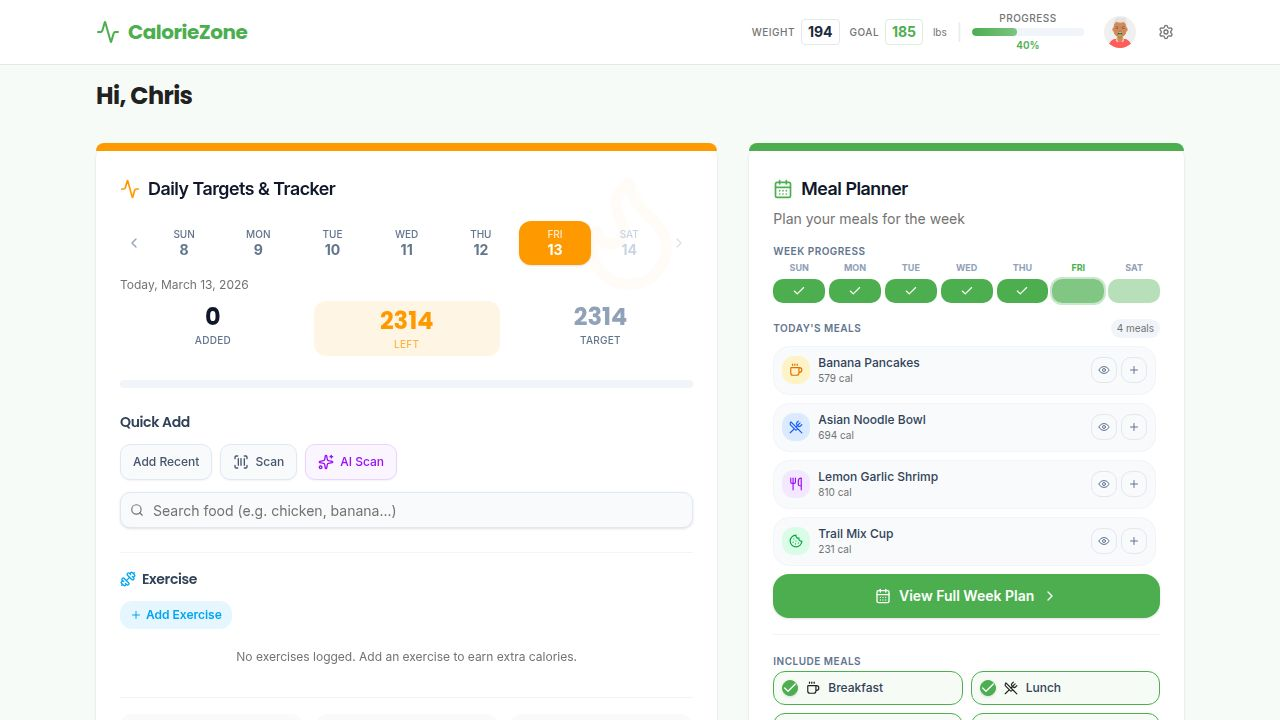
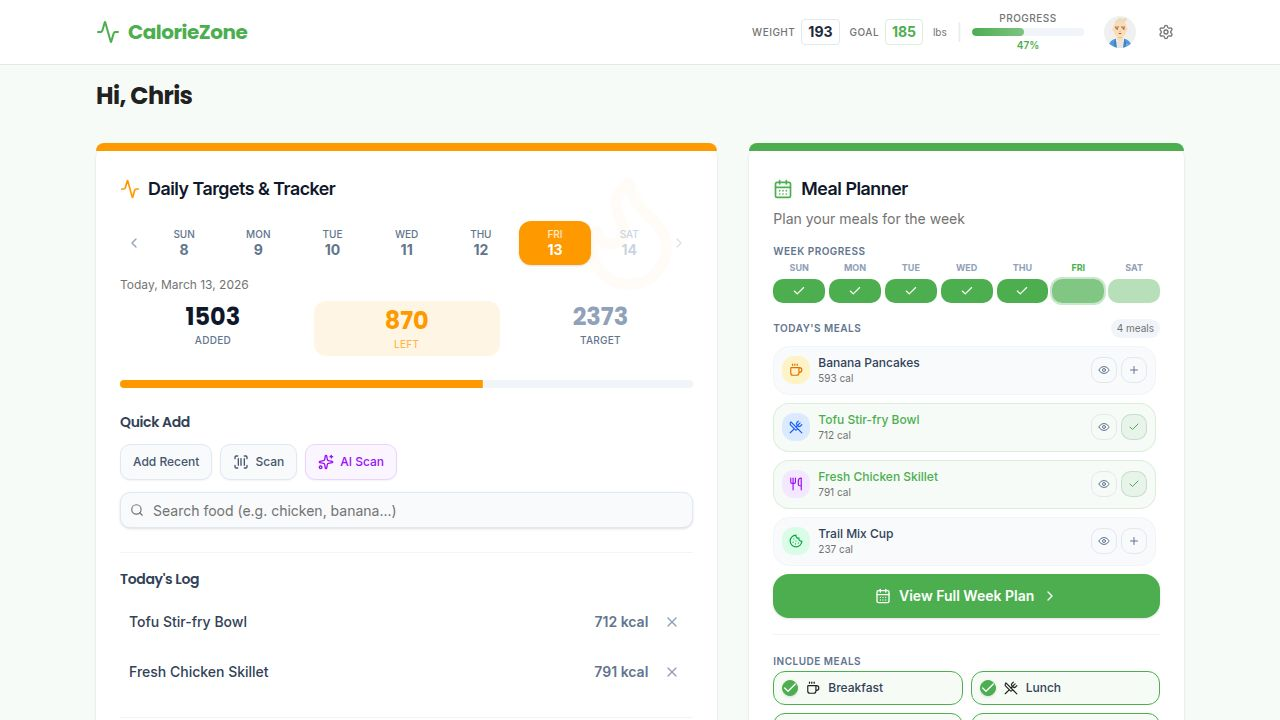
Fix meal planner synchronization issues with daily tracker
Update API query invalidation for food entries to ensure meal planner state correctly reflects additions and removals from the daily tracker.

Replit-Commit-Author: Agent
Replit-Commit-Session-Id: d0c98cd4-3401-4b9a-9fcc-3167ef5b7d4c
Replit-Commit-Checkpoint-Type: full_checkpoint
Replit-Commit-Event-Id: 7941763a-84ce-4e13-ac74-997e006fb54e
Replit-Commit-Screenshot-Url: https://storage.googleapis.com/screenshot-production-us-central1/b5252e75-7d72-4a27-a063-837869a7ea78/d0c98cd4-3401-4b9a-9fcc-3167ef5b7d4c/pQcFG44
Replit-Helium-Checkpoint-Created: true

diff --git a/client/src/pages/home.tsx b/client/src/pages/home.tsx
@@ -344,6 +344,7 @@ export default function Home() {
     },
     onSuccess: () => {
       queryClient.invalidateQueries({ queryKey: ["/api/food-entries"] });
+      queryClient.invalidateQueries({ queryKey: ["/api/food-entries/range"] });
     },
   });
 
@@ -353,6 +354,7 @@ export default function Home() {
     },
     onSuccess: () => {
       queryClient.invalidateQueries({ queryKey: ["/api/food-entries"] });
+      queryClient.invalidateQueries({ queryKey: ["/api/food-entries/range"] });
     },
   });
 
